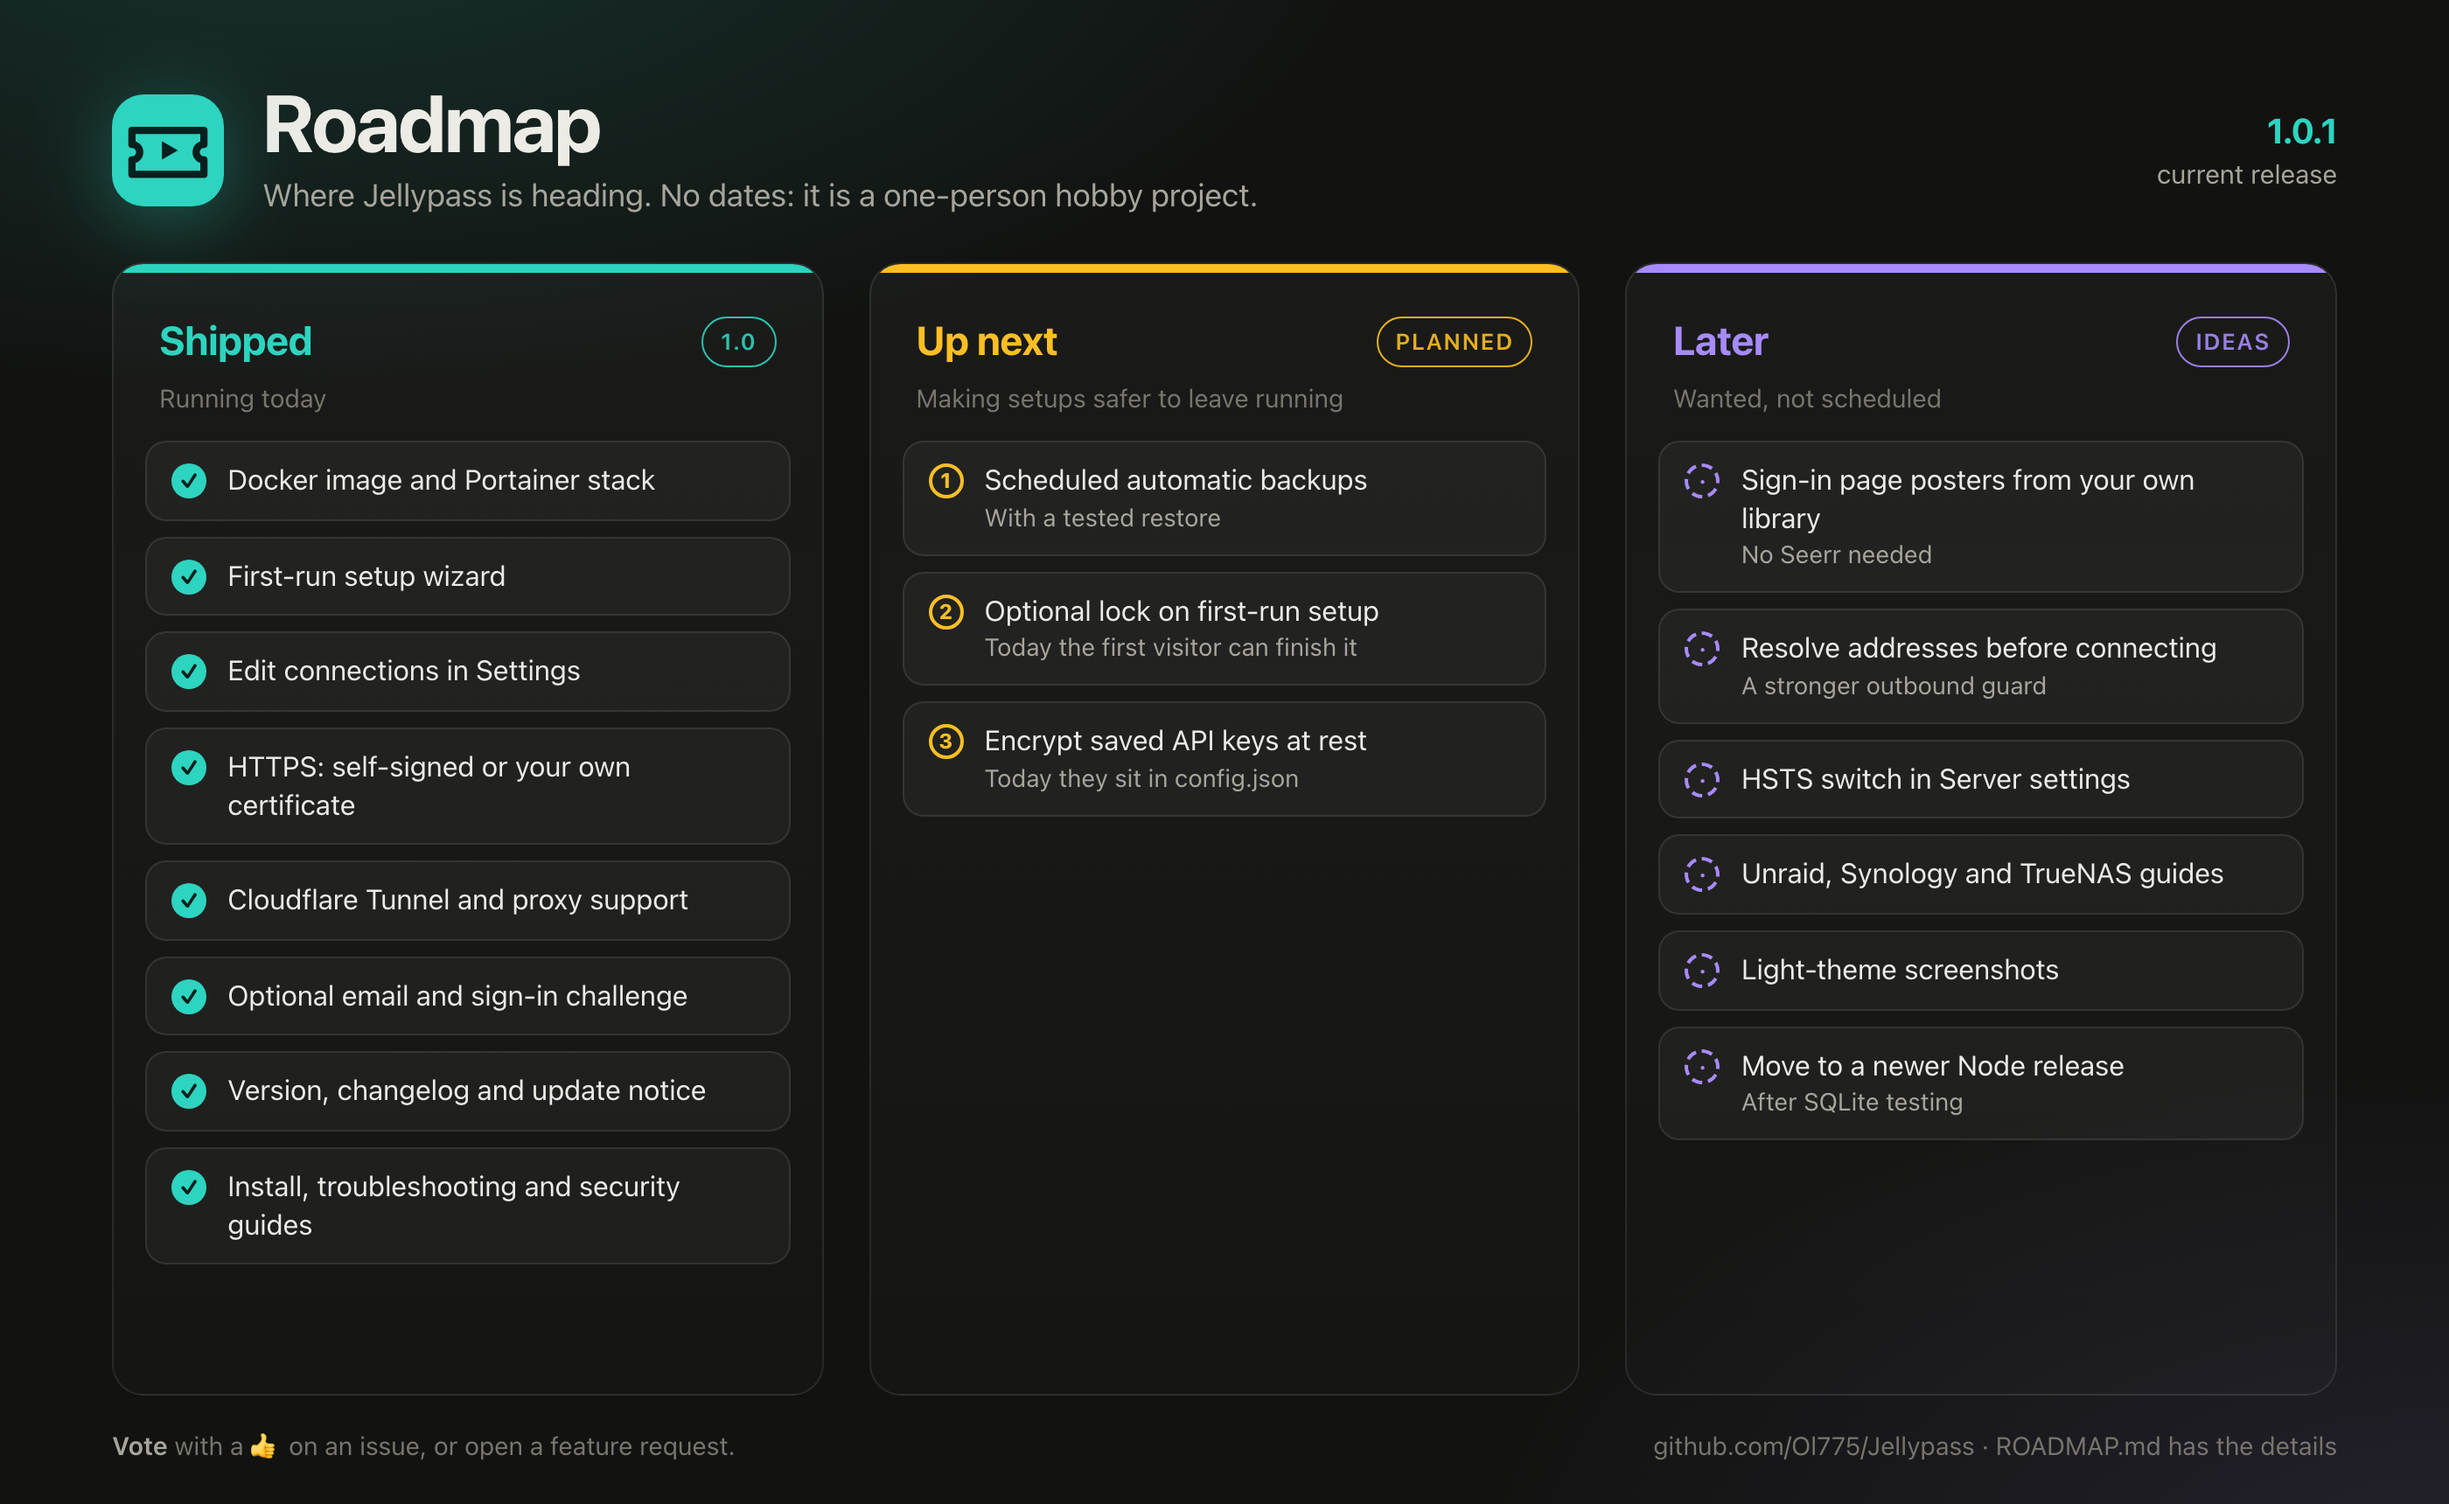
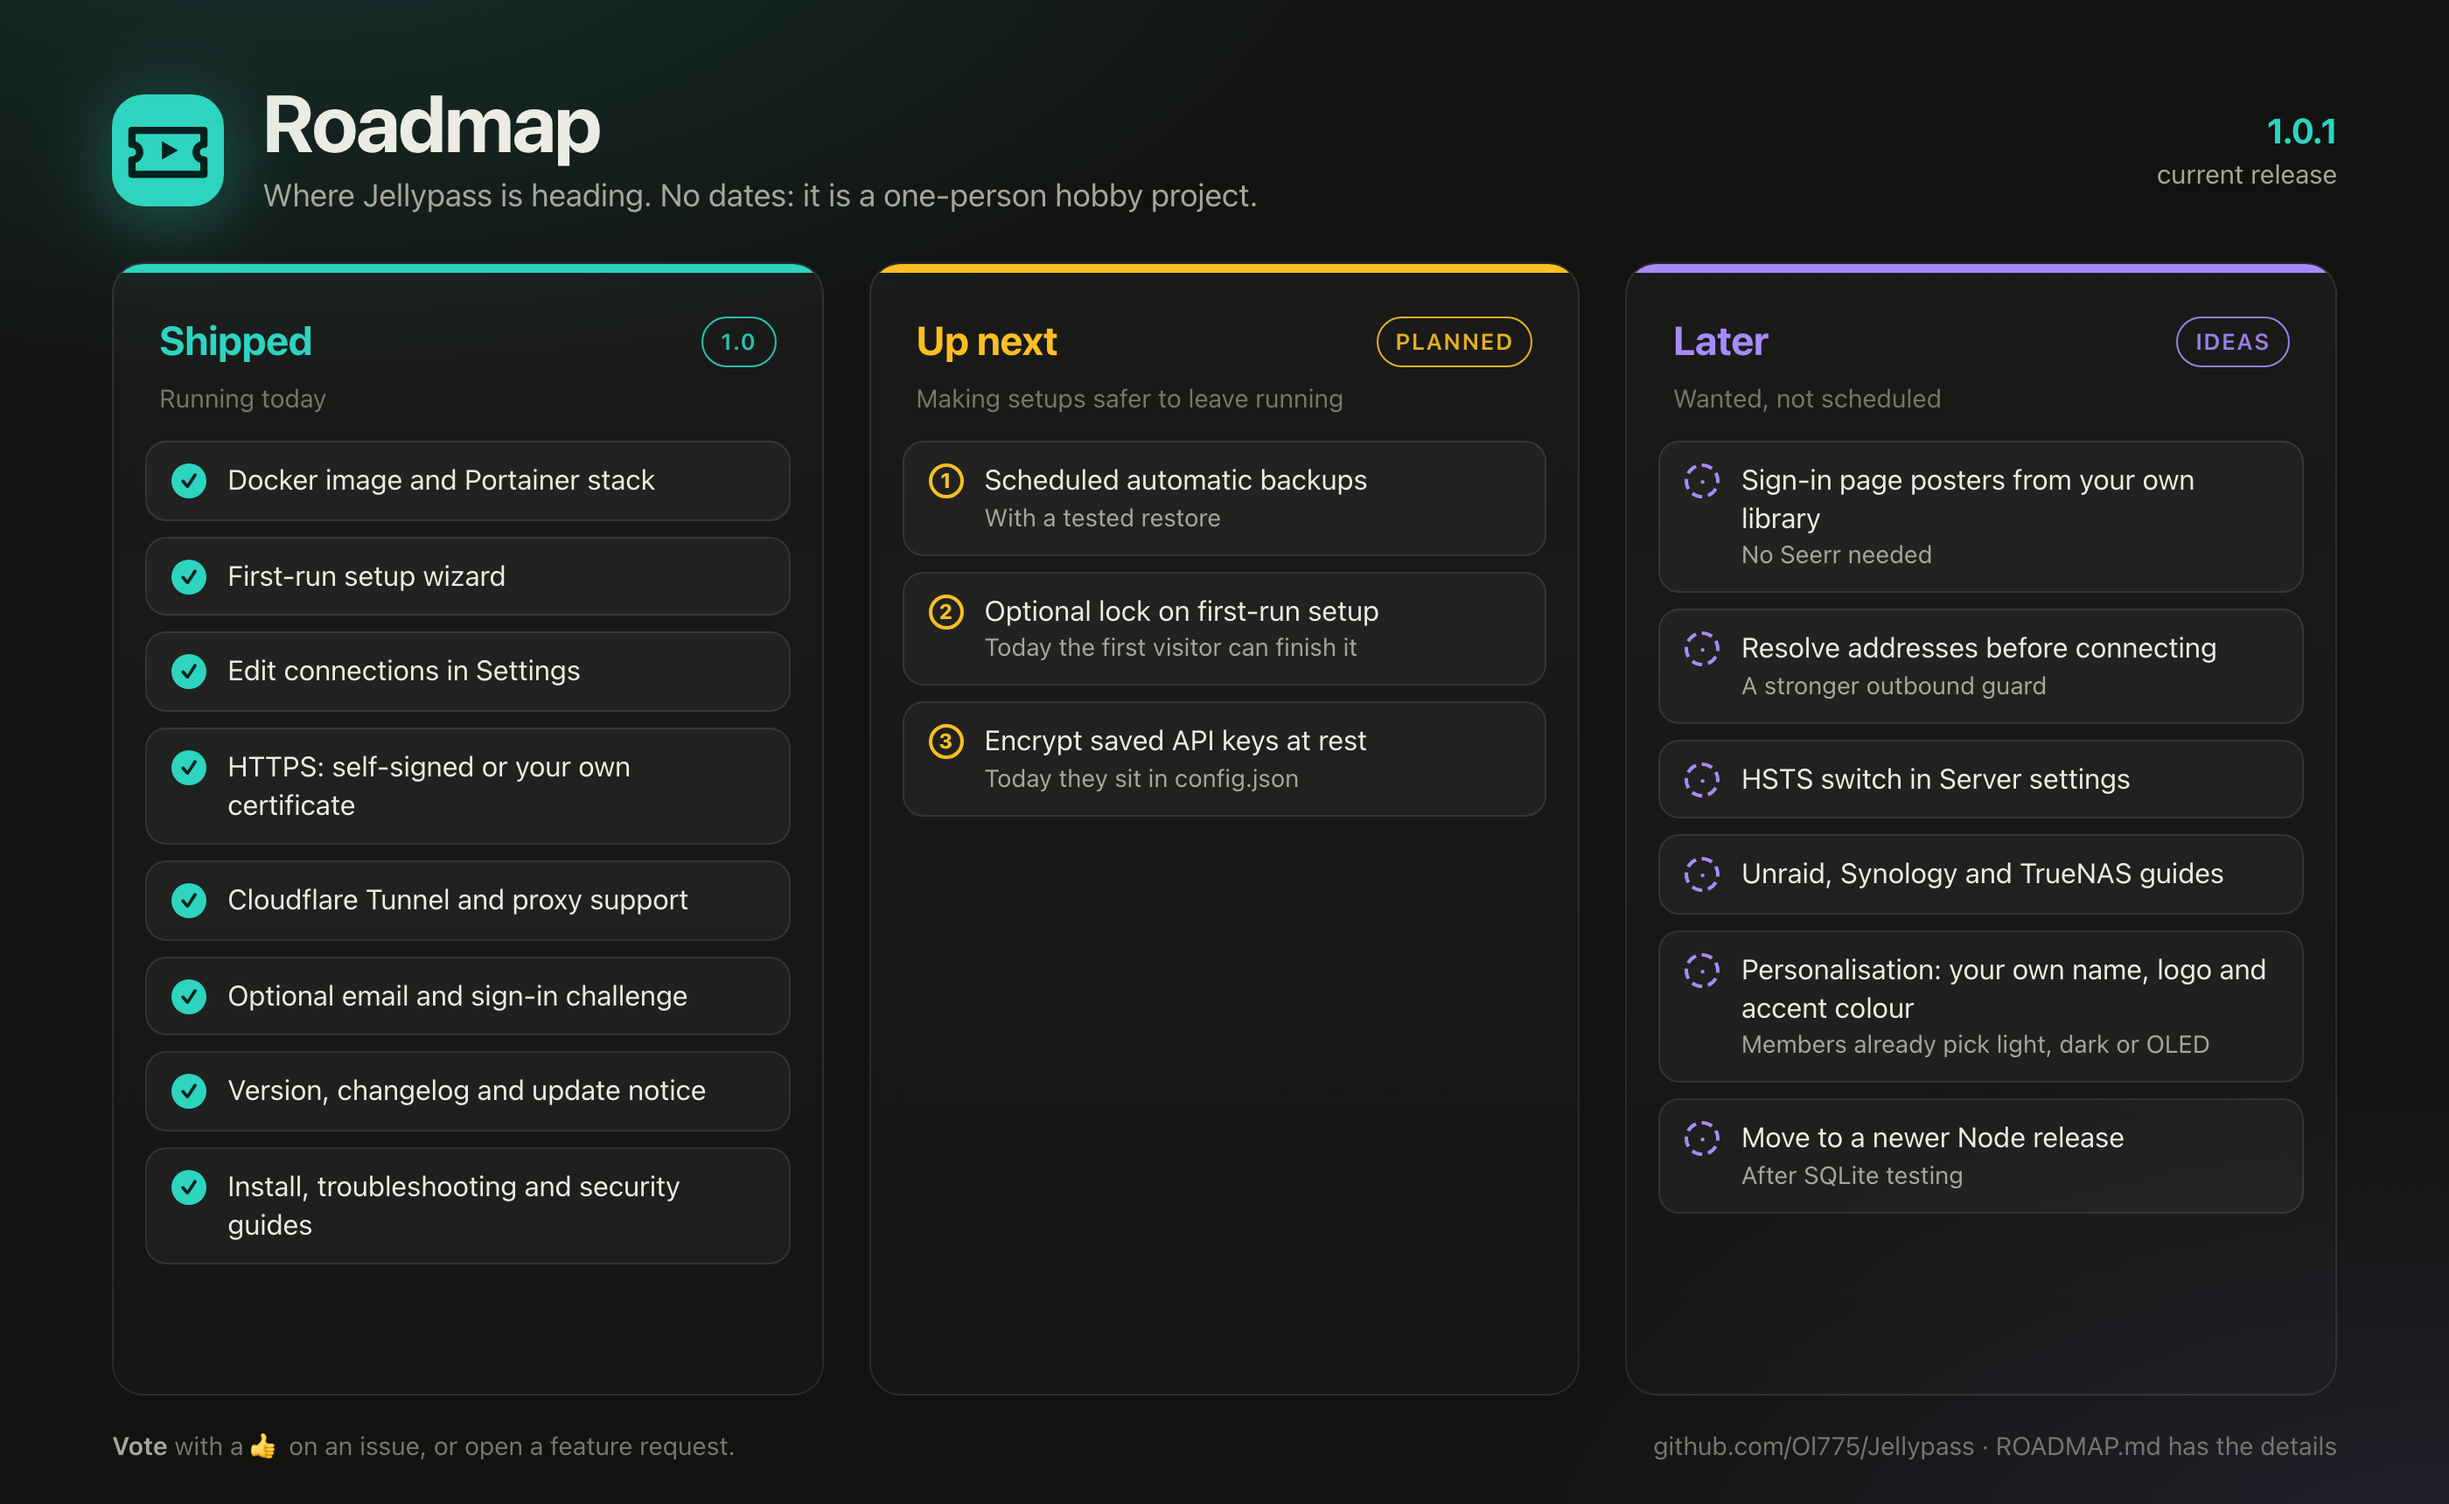
Roadmap: replace light-theme screenshots with personalisation
Members can already choose Auto, Light, Dark or OLED themselves; the gap is
branding the whole portal (name, logo, accent colour).

Claude-Session: https://claude.ai/code/session_01SLj4LdzW8EUNbEfUfEX7yp

Changed region(s): [[0.6836, 0.6163, 0.9011, 0.8012]]

diff --git a/ROADMAP.md b/ROADMAP.md
@@ -1,6 +1,6 @@
 # Roadmap
 
-<p align="center"><img src="docs/images/roadmap.png" alt="Jellypass roadmap in three columns. Shipped in 1.0: Docker image and Portainer stack, first-run setup wizard, editing connections in Settings, HTTPS with a self-signed or your own certificate, Cloudflare Tunnel and proxy support, optional email and sign-in challenge, version and changelog with an update notice, and the install, troubleshooting and security guides. Up next: scheduled automatic backups, an optional lock on first-run setup, and encrypting saved API keys. Later: sign-in page posters from your own library, resolving addresses before connecting, an HSTS switch, Unraid, Synology and TrueNAS guides, light-theme screenshots, and moving to a newer Node release." width="100%"></p>
+<p align="center"><img src="docs/images/roadmap.png" alt="Jellypass roadmap in three columns. Shipped in 1.0: Docker image and Portainer stack, first-run setup wizard, editing connections in Settings, HTTPS with a self-signed or your own certificate, Cloudflare Tunnel and proxy support, optional email and sign-in challenge, version and changelog with an update notice, and the install, troubleshooting and security guides. Up next: scheduled automatic backups, an optional lock on first-run setup, and encrypting saved API keys. Later: sign-in page posters from your own library, resolving addresses before connecting, an HSTS switch, Unraid, Synology and TrueNAS guides, personalisation (your own name, logo and accent colour), and moving to a newer Node release." width="100%"></p>
 
 This is where Jellypass is heading. **It is a plan, not a promise**: Jellypass is a one-person hobby project, so there are no dates, and priorities change with what breaks, what people ask for and what I have time for. The picture above is a summary; this page has the detail.
 
@@ -38,7 +38,7 @@ Good ideas that are not scheduled. If one matters to you, say so on an issue.
 | **Resolve addresses before connecting** | Obvious cloud-metadata addresses are refused by name, but names are not resolved first. Resolving them would be a stronger guard for the outbound connections |
 | **HSTS switch in Server settings** | Jellypass sets no `Strict-Transport-Security` header; today you add it at your proxy |
 | **Unraid, Synology and TrueNAS guides** | Install notes (and an Unraid template) for the common home-server platforms |
-| **Light-theme screenshots** | The README screenshots are the dark theme only |
+| **Personalisation** | Make the portal yours: your own site name, logo and accent colour, and a default theme for new devices. Members can already choose Auto, Light, Dark or OLED themselves in their Settings (saved per device); this would let the admin brand the whole portal |
 | **Move to a newer Node release** | The image runs on Node 24. A newer release needs testing first, because Jellypass relies on Node's built-in SQLite |
 
 ## 🚫 Not planned
